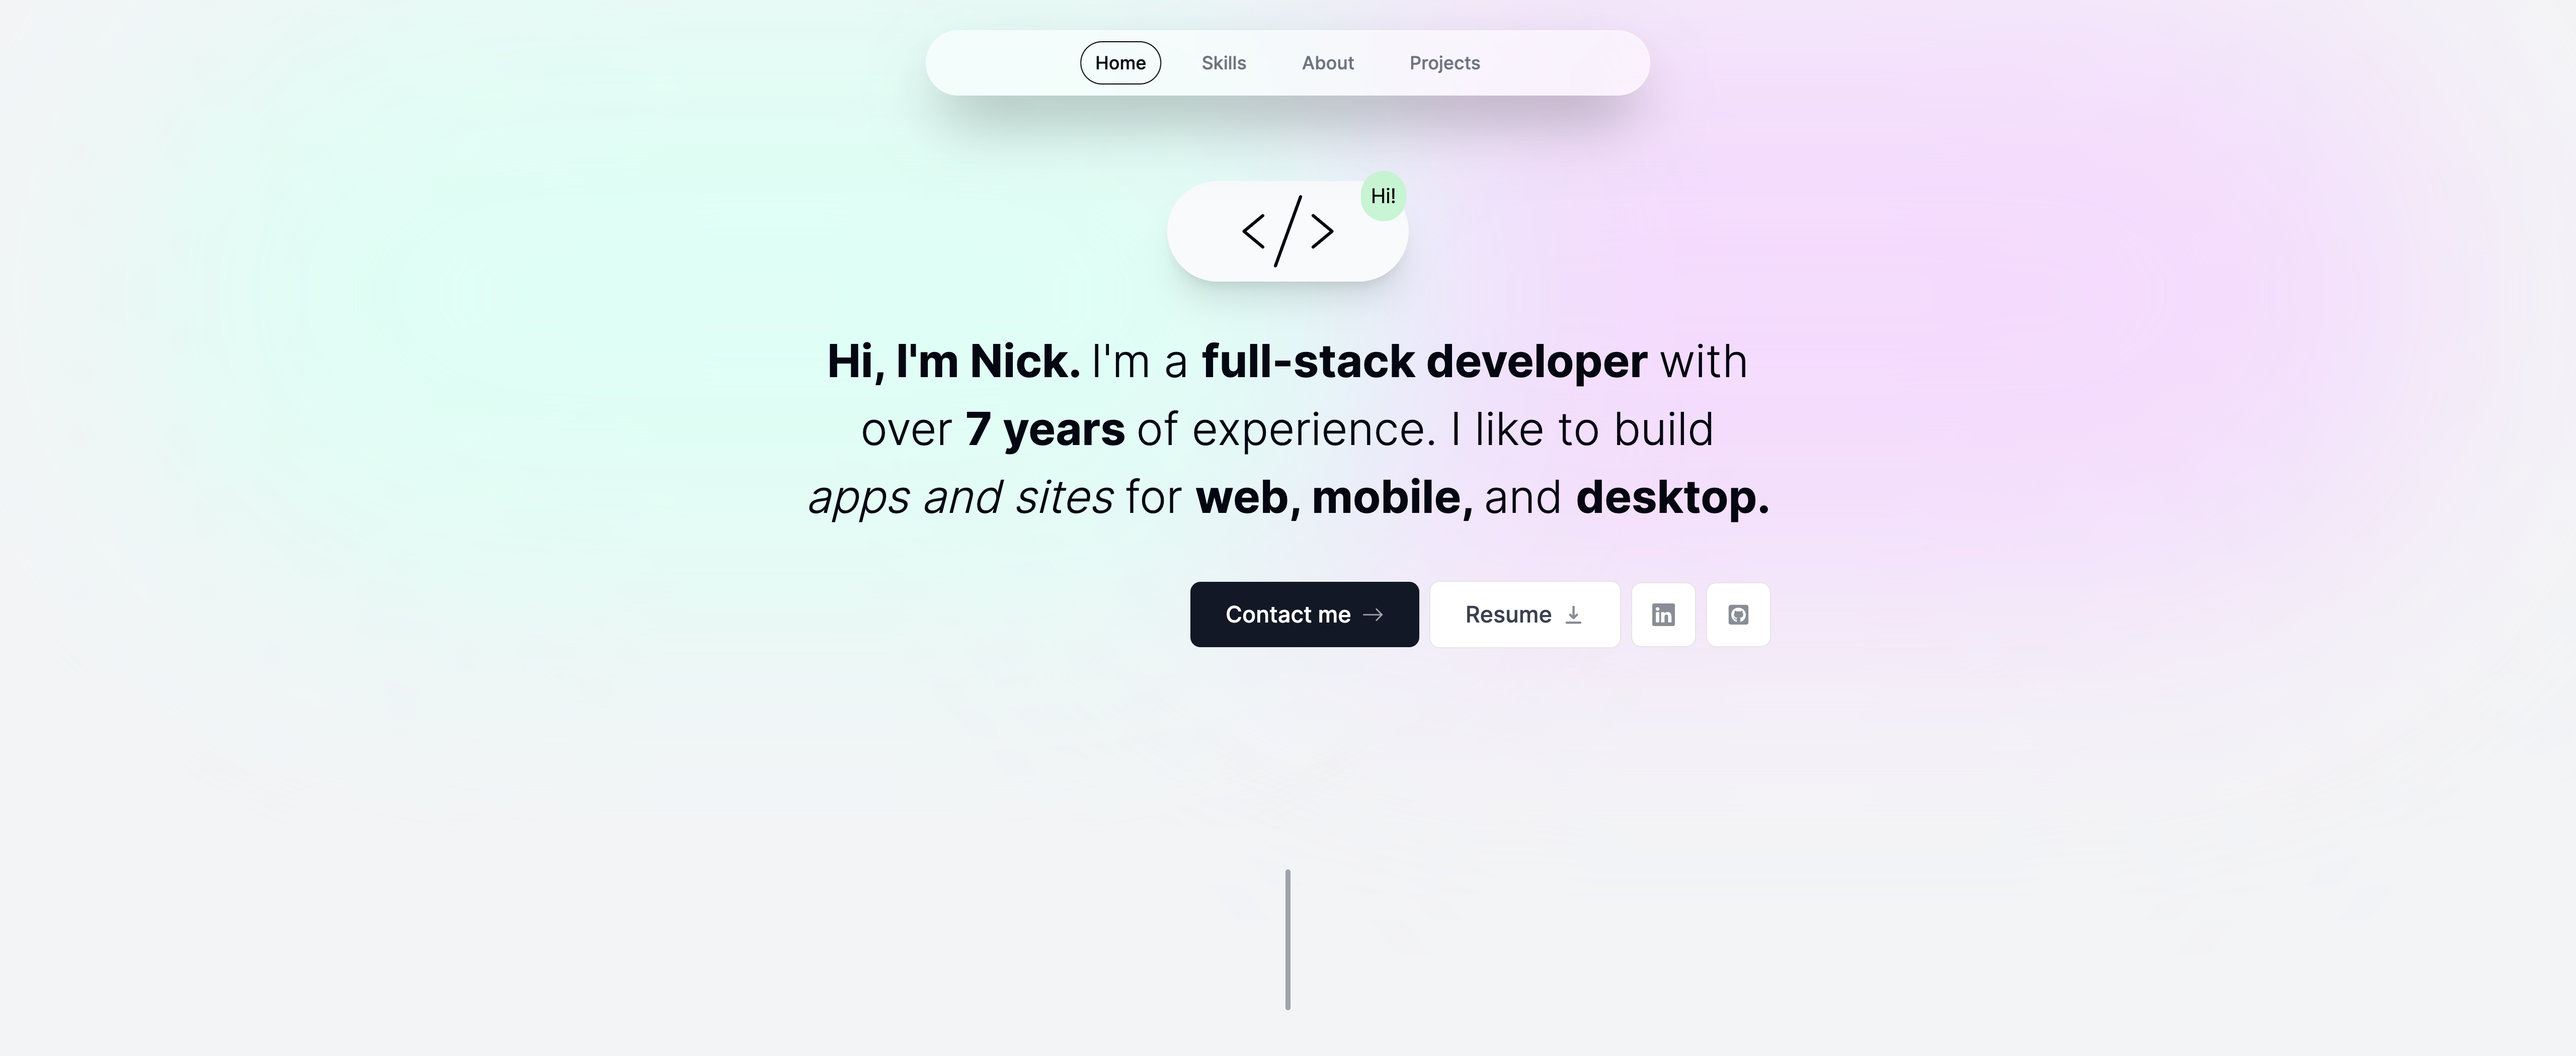
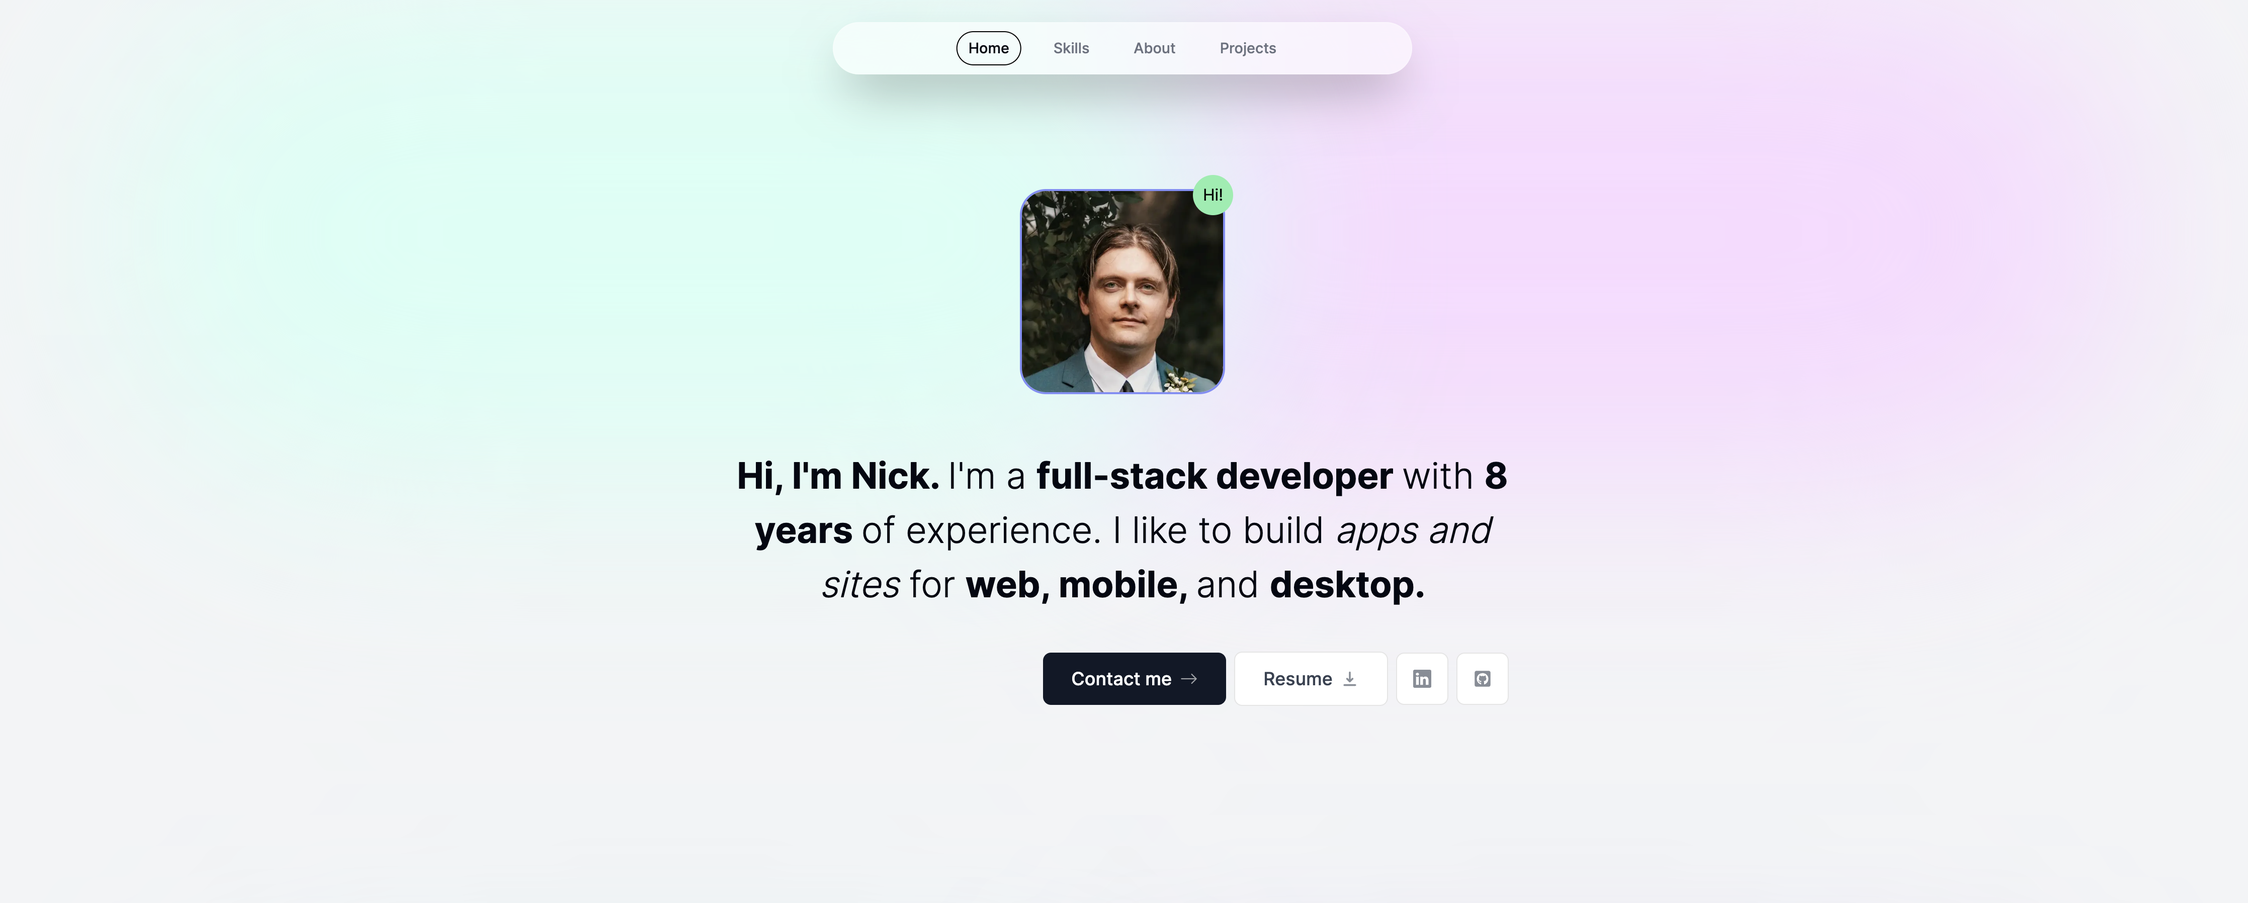
Update hero image and portfolio-site image

Changed region(s): [[0.311, 0.1559, 0.6841, 0.686], [0.3421, 0.0312, 0.653, 0.0935], [0.4664, 0.7171, 0.5908, 0.7795]]

diff --git a/src/components/intro/intro-hero.tsx b/src/components/intro/intro-hero.tsx
@@ -1,4 +1,5 @@
 import { motion } from "framer-motion";
+import Image from "next/image";
 import { HiOutlineComputerDesktop } from "react-icons/hi2";
 
 export default function IntroHero() {
@@ -11,13 +12,17 @@ export default function IntroHero() {
                     animate={{ opacity: 1, scale: 1 }}
                     transition={{ type: "tween", duration: 0.2 }}
                 >
-                    <HiOutlineComputerDesktop className='h-42 bg-clip-content p-0 m-2 border-spacing-0 bg-slate-50 bg-round rounded-3xl shadow-xl' size={200} />
+                    {/* <HiOutlineComputerDesktop className='h-42 bg-clip-content p-0 m-2 border-spacing-0 bg-slate-50 bg-round rounded-3xl shadow-xl' size={200} /> */}
+                    <div className="overflow-hidden rounded-3xl ring-indigo-400 ring-2">
+                    <Image src={"/nfli.jpeg"} height={200} width={200} alt={"nick-fraser"} className="rounded-3xl scale-125 translate-y-6 -translate-x-4 brightness-110"/>
+                    </div>
+                    
                     <motion.span
                         initial={{ opacity: 0, scale: 0 }}
                         animate={{ opacity: 1, scale: 1 }}
                         transition={{ type: "tween", delay: 1, duration: 0.25 }}
 
-                        className='absolute -top-2 right-0.5 bg-green-300 border-spacing-10 text-black bg-round rounded-full p-2 outline-black'>Hi!</motion.span>
+                        className='absolute -top-4 -right-2.5 bg-green-300 border-spacing-10 text-black bg-round rounded-full p-2 outline-black h-10 w-10 flex flex-col items-center justify-center'>Hi!</motion.span>
                 </motion.div>
 
             </div>
